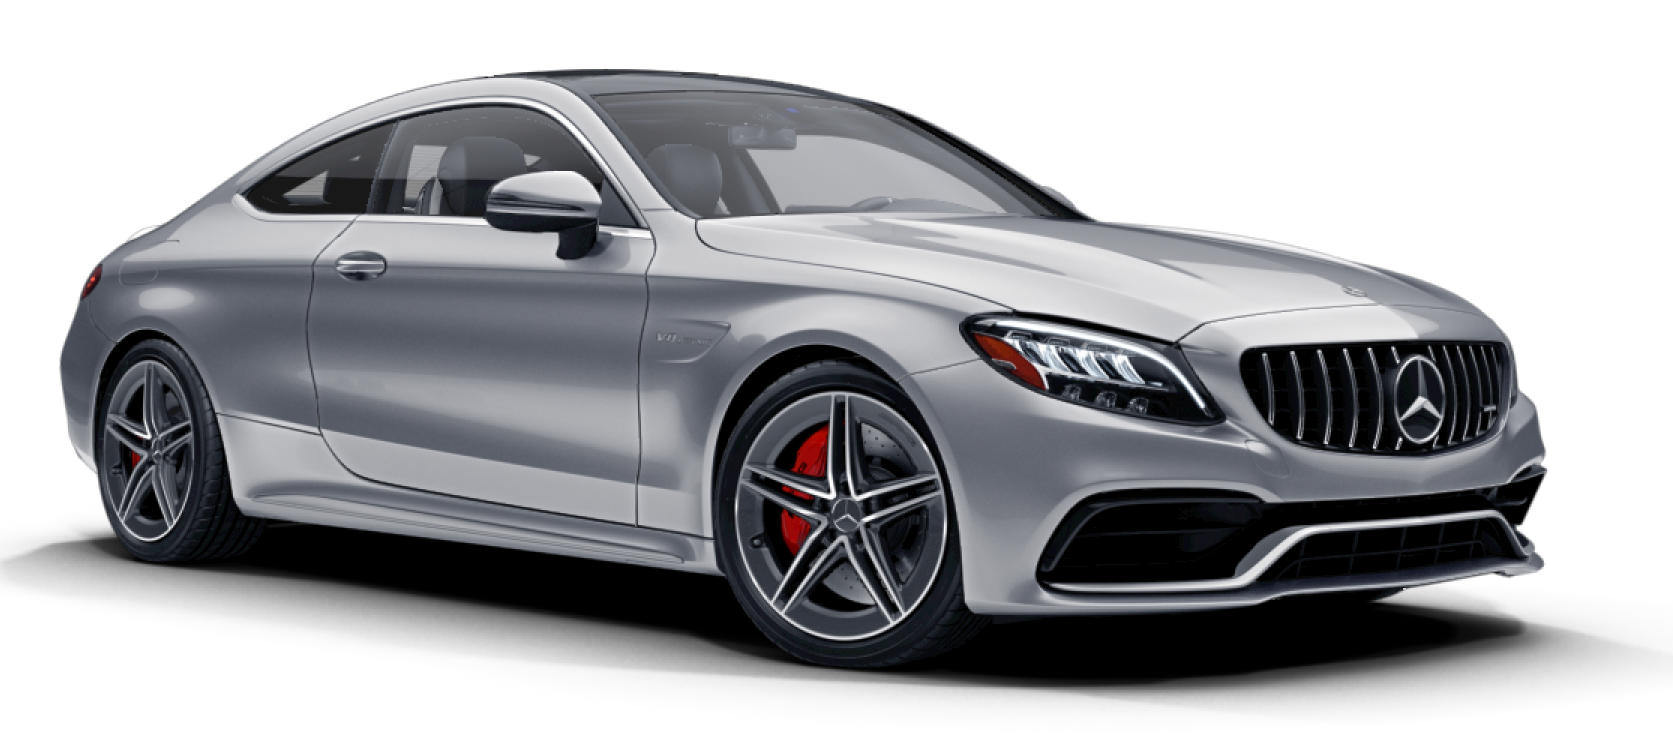
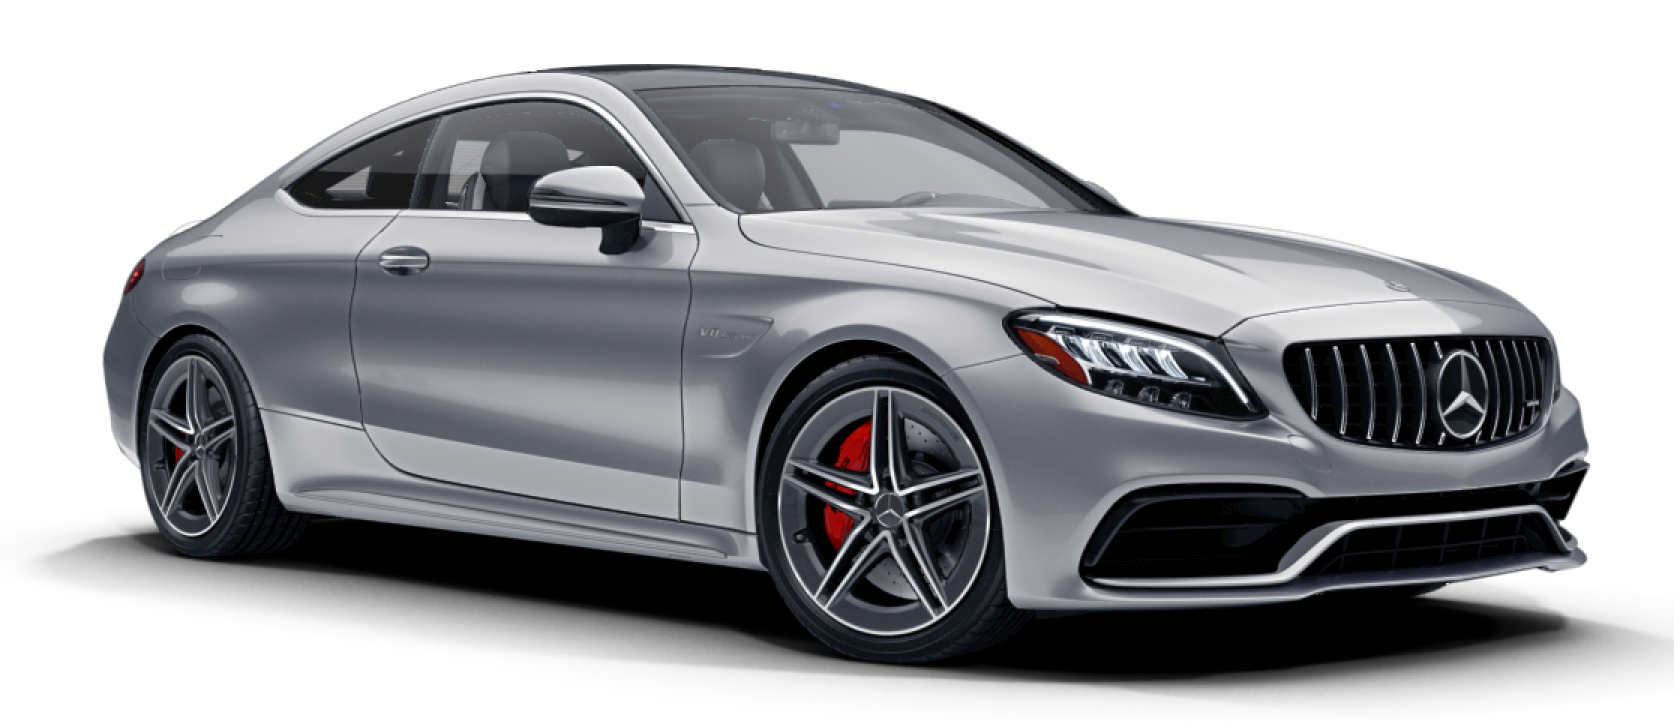
upgraded stuff

diff --git a/src/routes/cars/+page.svelte b/src/routes/cars/+page.svelte
@@ -1,21 +1,21 @@
 <script lang="ts">
 	import MenuIconButton from '$lib/components/menuiconbutton.svelte';
 	import Button from '$lib/components/button.svelte';
-	import { Info } from 'lucide-svelte';
+	import { Info, Award } from 'lucide-svelte';
 	import CarSelector from '$lib/car-selector.svelte';
 
-	let color: string = 'blue';
-
+	let color: 'grey' | 'blue' | 'black' | 'white' = 'blue';
 	const setColor = (setcolor) => {
 		color = setcolor;
-		console.log(color);
 	};
 </script>
 
 <div class="pt-8 h-full w-full flex flex-col">
 	<div class="flex gap-x-4 items-center">
 		<span class="text-4xl font-bold">Mercedes-Benz</span>
-		<MenuIconButton><Info /></MenuIconButton>
+		<a href="https://www.mbusa.com/en/vehicles/model/c-class/coupe/c63cs#key-features">
+			<MenuIconButton><Info /></MenuIconButton>
+		</a>
 	</div>
 	<span class="text-xl text-gray-500">AMG C63 Coupe - 2023</span>
 	<div class="mx-auto mt-4 flex items-center justify-between h-[70%] w-[90%]">
@@ -26,13 +26,36 @@
 			<Button>Luxury</Button>
 			<Button>Multimedia</Button>
 		</div>
-		<CarSelector selectedColor={color} />
+
+		<div class="flex justify-center">
+			<CarSelector selectedColor={color} />
+		</div>
+
+		<div class="absolute flex-col items-center flex w-[20rem] mt-[-16rem] right-8">
+			<div
+				class="bg-black text-white w-full flex items-center justify-center py-6 rounded-xl mb-[-1rem]"
+			>
+				<div class="rounded-full bg-gray-800 p-3 mr-2">
+					<Award size={24} />
+				</div>
+				<span class="text-xl">Unsurpassed Power</span>
+			</div>
+			<div
+				class="p-4 rounded-xl border-black border-2 border-solid bg-white bg-opacity-50 backdrop-blur-md self-start"
+			>
+				<span>
+					A handcrafted 503-hp biturbo V8 unleashes a 516-lb-ft torrent of torque. Aggressive style
+					envelops advanced technologies.
+				</span>
+			</div>
+		</div>
 	</div>
 	<div class="flex mt-[-4rem] justify-between">
 		<div class="flex items-center gap-4">
 			<span class="text-3xl ml-16 font-bold">Featured Highlights</span>
 			<MenuIconButton><Info /></MenuIconButton>
 		</div>
+
 		<div class="flex items-center justify-center">
 			<span class="text-3xl">Colors</span>
 			<div class="flex ml-4 items-center justify-center">
@@ -61,6 +84,15 @@
 					<div
 						on:click={() => setColor('black')}
 						class="visible cursor-pointer rounded-full bg-black h-6 w-6"
+					/>
+				</div>
+				<div
+					class:invisible={color != 'white'}
+					class="rounded-full w-9 h-9 flex border-gray-500 border-solid border-2 items-center justify-center"
+				>
+					<div
+						on:click={() => setColor('white')}
+						class="visible cursor-pointer rounded-full bg-white h-6 w-6"
 					/>
 				</div>
 			</div>

diff --git a/src/lib/car-selector.svelte b/src/lib/car-selector.svelte
@@ -1,16 +1,18 @@
 <script lang="ts">
-	export let selectedColor: 'grey' | 'red' | 'blue' | 'black' = 'blue';
+	export let selectedColor: 'grey' | 'blue' | 'black' | 'white' = 'blue';
 	import BlueCar from '$lib/amg-blue.png';
 	import GreyCar from '$lib/amg-grey.png';
 	import BlackCar from '$lib/amg-black.png';
+	import WhiteCar from '$lib/amg-white.png';
 
 	const cars = {
 		blue: BlueCar,
 		grey: GreyCar,
-		black: BlackCar
+		black: BlackCar,
+		white: WhiteCar
 	};
 </script>
 
-<div class="w-[70%]">
+<div class="w-[90%]">
 	<img src={cars[selectedColor]} alt={`Car with ${selectedColor} color`} />
 </div>
